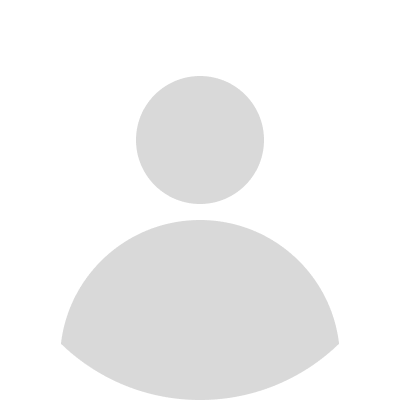
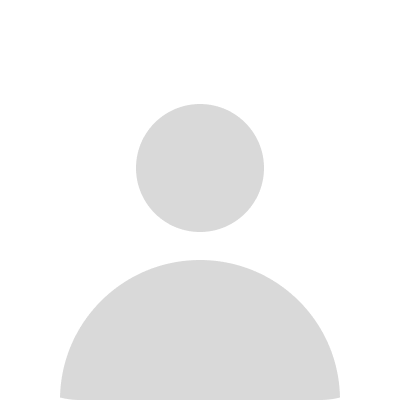
Tela Detalhes da Vaga iniciada

Changed region(s): [[0.15, 0.18, 0.87, 1.0]]

diff --git a/screens/JobDetail/JobDetail.tsx b/screens/JobDetail/JobDetail.tsx
@@ -1,21 +1,30 @@
 import { useState, useEffect } from 'react'
-import { View, Text, Image, StyleSheet, StatusBar } from 'react-native'
+import { View, Text, Image, StyleSheet, StatusBar, TouchableOpacity } from 'react-native'
+import * as ExpoStatusBar from 'expo-status-bar'
 import { db, storage } from '../../config/firebase'
 import { doc, getDoc } from 'firebase/firestore'
 import { getDownloadURL, ref } from 'firebase/storage'
 import { Job, VagasStackScreenProps } from '../../types'
+import { ArrowLeft } from 'react-native-iconly'
+import { Entypo } from '@expo/vector-icons';
 
 const JobDetail = ({ navigation, route }: VagasStackScreenProps<'Job'>) => {
   
   const id = route.params.id
   
   const [job, setJob] = useState<Job>()
+  const [imageUrl, setImageUrl] = useState<string>()
 
-  const getImage = async () => {
-    const storageRef = ref(storage, `Users/${job?.HirerUid}/Profile`)
+  const [page, setPage] = useState<number>(0)
+
+  const getImage = async (uid: string) => {
+    const storageRef = ref(storage, `Users/${uid}/Profile`)
     await getDownloadURL(storageRef)
-      .then(() => {
-        
+      .then((url) => {
+        setImageUrl(url)
+      },
+      () => {
+
       })
   }
 
@@ -26,9 +35,22 @@ const JobDetail = ({ navigation, route }: VagasStackScreenProps<'Job'>) => {
         if(snapshot.exists()) {
           // @ts-ignore
           setJob(snapshot.data())
+          getImage(snapshot.data().HirerUid)
         }
       })
       .catch(e => console.error(e))
+  }
+
+  const renderPage = () =>{
+    const teste = [
+      'fodase',
+      'cu',
+      'caralho'
+    ]
+
+    if(page === 0) return teste.map((teste, index) => (
+      <Text key={index}>{teste}</Text>
+    ))
   }
 
   useEffect(() => {
@@ -37,14 +59,114 @@ const JobDetail = ({ navigation, route }: VagasStackScreenProps<'Job'>) => {
 
   return (
     <View style={styles.content}>
-      <Text>{JSON.stringify(job)}</Text>
+      <ExpoStatusBar.StatusBar translucent={true}/>
+      <View style={styles.header}>
+        <ArrowLeft set={'light'} color={'black'} size={36} onPress={() => navigation.goBack()}/>
+        <Text style={styles.title}>Detalhes da vaga</Text>
+        <Entypo name="dots-three-vertical" size={24} color="black" />
+      </View>
+      <View style={styles.info}>
+        <View style={styles.section1}>
+          <Image 
+            source={{uri: imageUrl}}
+            style={styles.image}
+          />
+          <Text style={[styles.title, {fontSize: 28, textAlign: 'center'}]}>
+            {job?.Title + '\n'}
+            <Text style={styles.text}>{`${job?.Hirer}, ${job?.Place}`}</Text>
+          </Text>
+        </View>
+        <View style={styles.divider}/>
+        <View style={styles.section2}>
+          <View style={styles.pages}>
+            <TouchableOpacity 
+              style={[styles.pageButton, page === 0 && {backgroundColor: 'black'}]}
+              onPress={() => setPage(0)}
+            >
+              <Text style={[styles.pageText, page === 0 && {color: 'white'}]}>Descrição da vaga</Text>
+            </TouchableOpacity>
+            <TouchableOpacity 
+              style={[styles.pageButton, page === 1 && {backgroundColor: 'black'}]}
+              onPress={() => setPage(1)}  
+            >
+              <Text style={[styles.pageText, page === 1 && {color: 'white'}]}>Requisitos</Text>
+            </TouchableOpacity>
+            <TouchableOpacity 
+              style={[styles.pageButton, page === 2 && {backgroundColor: 'black'}]}
+              onPress={() => setPage(2)}
+            >
+              <Text style={[styles.pageText, page === 2 && {color: 'white'}]}>Empresa</Text>
+            </TouchableOpacity>
+          </View>
+          <View style={styles.page}>
+            {
+              renderPage()
+            }
+          </View>
+        </View>
+      </View>
     </View>
   )
 }
 
 const styles = StyleSheet.create({
   content: {
-    marginTop: StatusBar.currentHeight
+    marginTop: StatusBar.currentHeight,
+    alignItems: 'center'
+  },
+  header: {
+    flexDirection: 'row',
+    alignItems: 'center',
+    justifyContent: 'space-between',
+    marginVertical: 10,
+    width: '90%',
+  },
+  info: {
+    width: '100%',
+    alignItems: 'center'
+  },
+  section1: {
+    alignItems: 'center'
+  },
+  section2: {
+    width: '100%',
+    alignItems: 'center'
+  },
+  image: {
+    height: 100,
+    aspectRatio: 1,
+    borderRadius: 10
+  },
+  title: {
+    fontFamily: 'Poppins_700Bold',
+    fontSize: 24,
+  },
+  text: {
+    fontFamily: 'Poppins_400Regular',
+    fontSize: 16
+  },
+  divider: {
+    width: '90%',
+    height: .5,
+    backgroundColor: 'black'
+  },
+  pages: {
+    flexDirection: 'row',
+    alignItems: 'center',
+    justifyContent: 'space-between',
+    width: '90%'
+  },
+  pageButton: {
+    backgroundColor: 'rgba(0, 0, 0, .05)',
+    paddingVertical: 8,
+    paddingHorizontal: 10,
+    borderRadius: 20
+  },
+  pageText: {
+    fontFamily: 'Poppins_300Light'
+  },
+  page: {
+    width: '100%'
   }
 })
 

diff --git a/screens/LoginScreens/LoginScreen.tsx b/screens/LoginScreens/LoginScreen.tsx
@@ -2,11 +2,12 @@ import { useEffect, useState } from 'react'
 import { View, Text, Image, TouchableOpacity, TextInput, StyleSheet, StatusBar, KeyboardAvoidingView, Alert } from 'react-native'
 import { NativeStackScreenProps } from '@react-navigation/native-stack'
 import { RootStackParamList } from '../../types'
-import Header from '../../components/Header'
 import { auth, storage } from '../../config/firebase'
 import { signInWithEmailAndPassword, UserCredential, AuthError, signOut, sendPasswordResetEmail } from 'firebase/auth'
 import { getData, storeData } from '../../hooks/useAsyncStorage'
 import AsyncStorage from '@react-native-async-storage/async-storage'
+
+import Header from '../../components/Header'
 import Loader from '../../components/Loader/Loader'
 
 type Props = NativeStackScreenProps<RootStackParamList>
@@ -16,10 +17,10 @@ function LoginScreen({navigation}: Props) {
   const [active, setActive]       = useState(true)
   const [isLoading, setIsLoading] = useState(true)
 
-  const [email, setEmail]       = useState("")
-  const [password, setPassword] = useState("")
+  const [email, setEmail]         = useState<string>()
+  const [password, setPassword]   = useState<string>()
 
-  const [error, setError]       = useState<string>()
+  const [error, setError]         = useState<string>()
 
   const handleError = (err: AuthError) => {
     switch(err.code) {
@@ -39,9 +40,6 @@ function LoginScreen({navigation}: Props) {
         setError(err.code)
         break
     }
-
-    console.log(err)
-    
   }
 
   const loginFirebase = () => {
@@ -65,8 +63,8 @@ function LoginScreen({navigation}: Props) {
   useEffect(() => {
     setIsLoading(true)
     signOut(auth)
-    .then(() => {
-      setIsLoading(false)
+      .then(() => {
+        setIsLoading(false)
       })
       .catch(e => setError(e))
   }, [])
